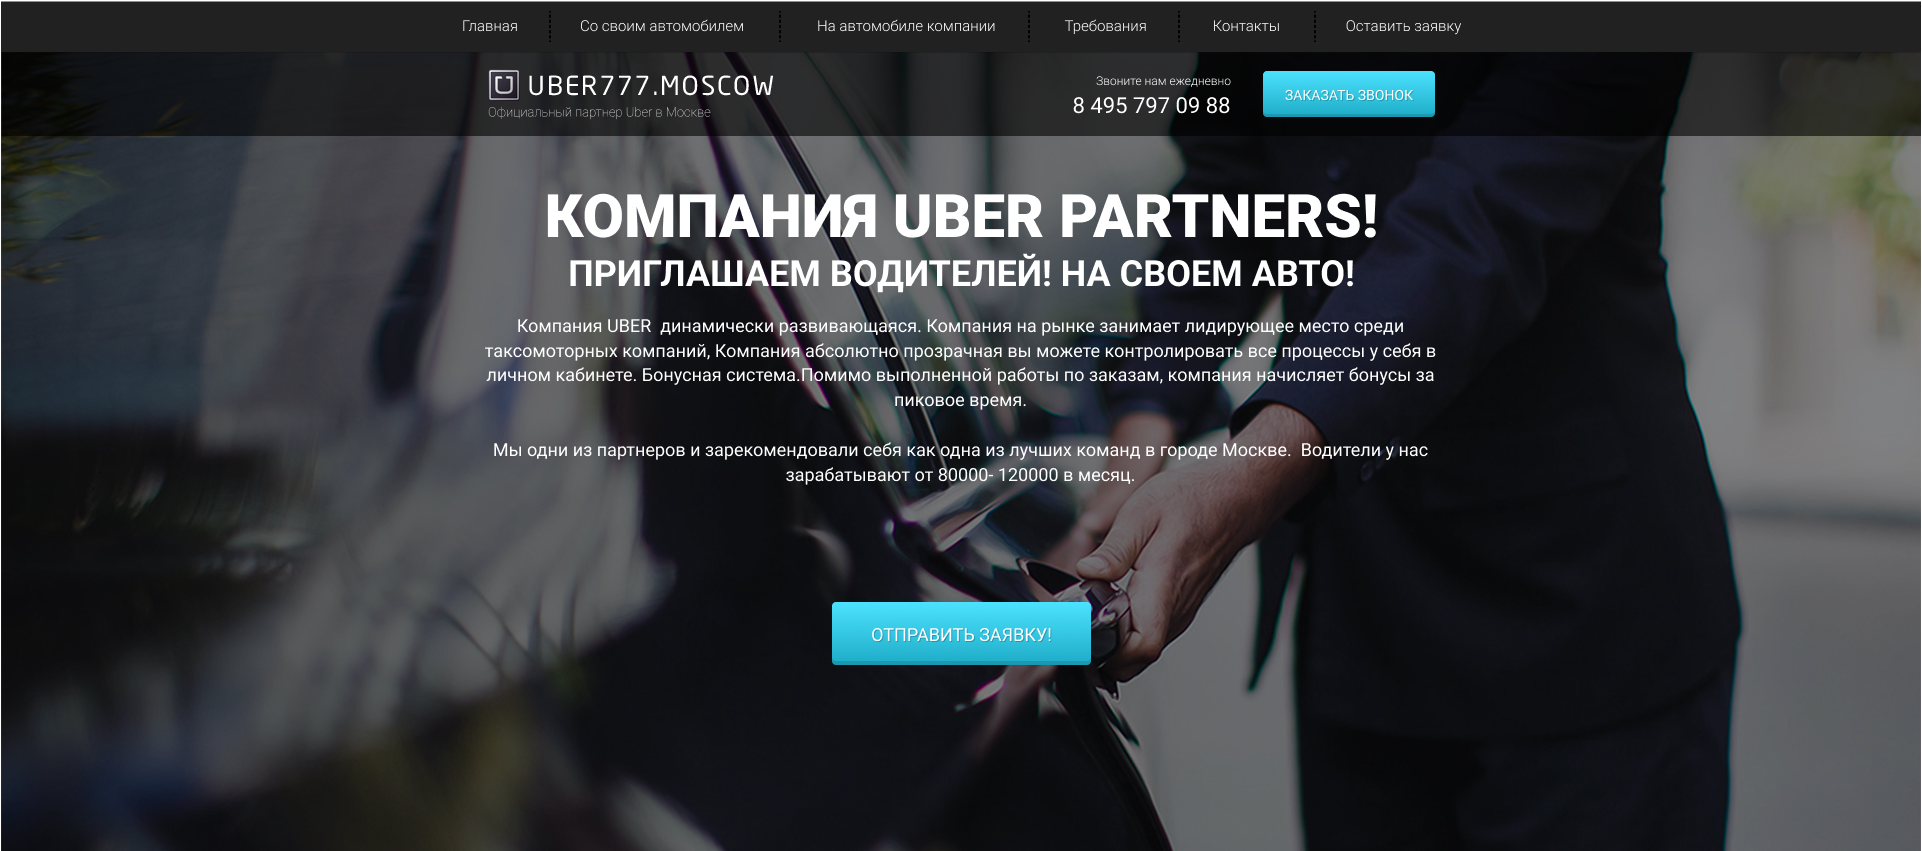
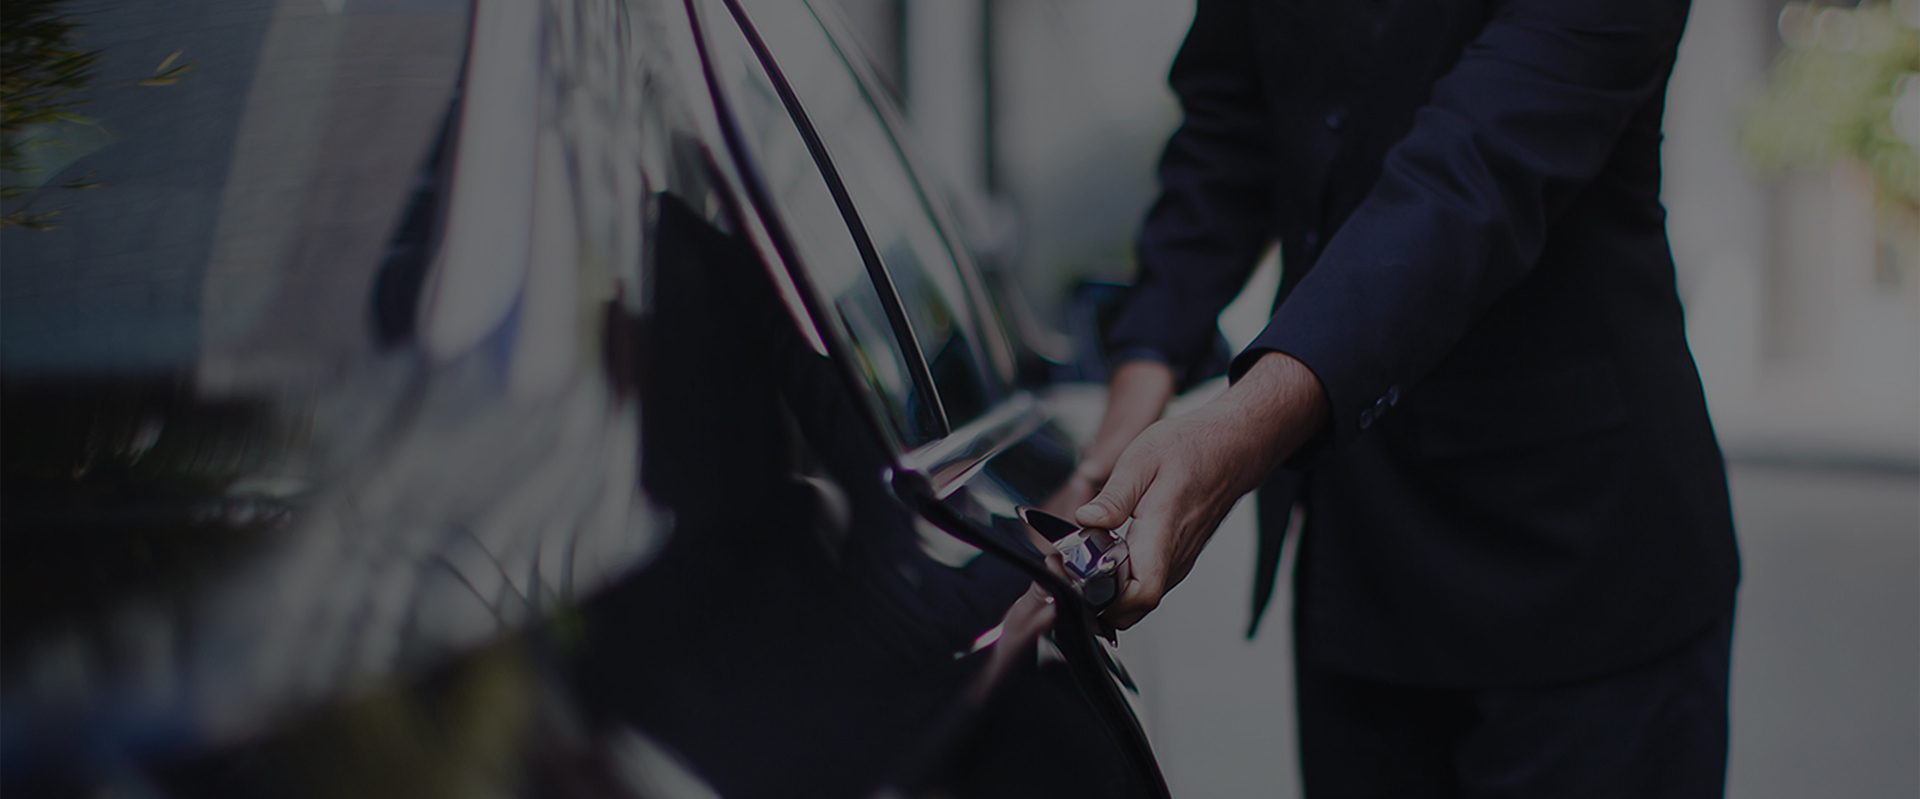
Section Promo

diff --git a/css/style.css b/css/style.css
@@ -1,7 +1,14 @@
+.fixedForNavigation {
+  height: 50px;
+}
+/*navigation==============================================================*/
 .navigation {
   height: 50px;
   background-color: #212121;
   color:white;
+  position: fixed;
+  width: 100%;
+  z-index: 10;
 }
 
 .nav_menu {
@@ -22,7 +29,12 @@
   border-right: 2px dotted rgb(0, 0, 0); 
   padding-right: 45px;
 }
+
+/*subheader==============================================================*/
+
 .subheader {
+  position: absolute;
+  width: 100%;
   height: 87px;
   background-color: rgba(0,0,0,0.6);
 }
@@ -66,7 +78,7 @@
   width: 172px;
   height: 46px;
   border-radius: 4px;
-  background: #4CE2FF;
+  background: linear-gradient(0deg, #1EACC7 0%, #4CE2FF 100%);
   border: none;
   cursor:pointer;
 
@@ -76,5 +88,65 @@
   font-size: 14px;
   font-style: normal;
   font-weight: 400;
+  text-transform: uppercase;
+}
+
+/*promo==============================================================*/
+
+.promo {
+  min-height: 800px;
+  padding-top: 200px;
+  background: url('../img/bg/promo_uber_bg.png') center center/cover no-repeat;
+}
+
+.promo_header{
+  color: #FFF;
+  text-align: center;
+  font-size: 60px;
+  font-style: normal;
+  font-weight: 900;
+  text-transform: uppercase;
+}
+
+.promo_subheader{
+  color: #FFF;
+  margin-top: 10px;
+  text-align: center;
+  font-size: 36px;
+  font-style: normal;
+  font-weight: 700;
+  text-transform: uppercase;
+}
+
+.promo_text {
+  margin-top: 20px;
+  color: #FFF;
+  text-align: center;
+  font-family: Roboto;
+  font-size: 18px;
+  font-style: normal;
+  font-weight: 400;
+  line-height: 24px; /* 133.333% */
+}
+
+.promo_btn {
+  display: block;
+  margin: 0 auto;
+  margin-top: 115px;
+  width: 259px;
+  height: 63px;
+  border-radius: 4px;
+  border:none;
+  background: linear-gradient(0deg, #1EACC7 0%, #4CE2FF 100%);
+  box-shadow: 0px -4px 0px 0px rgba(0, 0, 0, 0.12) inset;
+  cursor:pointer;
+
+  color: #FFF;
+  text-align: center;
+  text-shadow: 1px 1px 0px rgba(0, 0, 0, 0.21);
+  font-size: 18px;
+  font-style: normal;
+  font-weight: 400;
+  line-height: 63px; /* 350% */
   text-transform: uppercase;
 }

diff --git a/index.html b/index.html
@@ -10,7 +10,7 @@
 	<title>Uber_Bootstrap</title>
 </head>
 <body>
-	<header class="header">
+	<header>
 		<nav class="navigation">
 			<div class="container">
 				<ul class="nav_menu">
@@ -23,6 +23,8 @@
 				</ul>
 			</div>
 		</nav>
+
+		<div class="fixedForNavigation"></div>
 
 		<div class="subheader">
 			<div class="container">
@@ -41,7 +43,24 @@
 			</div>
 			</div>
 		</div>
+
+		<section class="promo">
+			<div class="container">
+				<div class="row">
+					<div class="col-md-10 offset-md-1">
+						<h1 class="promo_header">КОМПАНИЯ UBER PARTNERS!</h1>
+						<h2 class="promo_subheader">ПРИГЛАШАЕМ ВОДИТЕЛЕЙ! НА СВОЕМ АВТО!</h2>
+						<p class="promo_text">Компания UBER  динамически развивающаяся. Компания на рынке занимает лидирующее место среди таксомоторных компаний, Компания абсолютно прозрачная вы можете контролировать все процессы у себя в личном кабинете. Бонуcная система.Помимо выполненной работы по заказам, компания начисляет бонусы запиковое время.
+						<br><br>
+						Мы одни из партнеров и зарекомендовали себя как одна из лучших команд в городе Москве.  <br>Водители у нас зарабатывают от 80000- 120000 в месяц.</p>
+
+						<button class="promo_btn">ОТПРАВИТЬ ЗАЯВКУ!</button>
+					</div>
+				</div>
+			</div>
+		</section>
 	</header>
+
 
 </body>
 </html>
